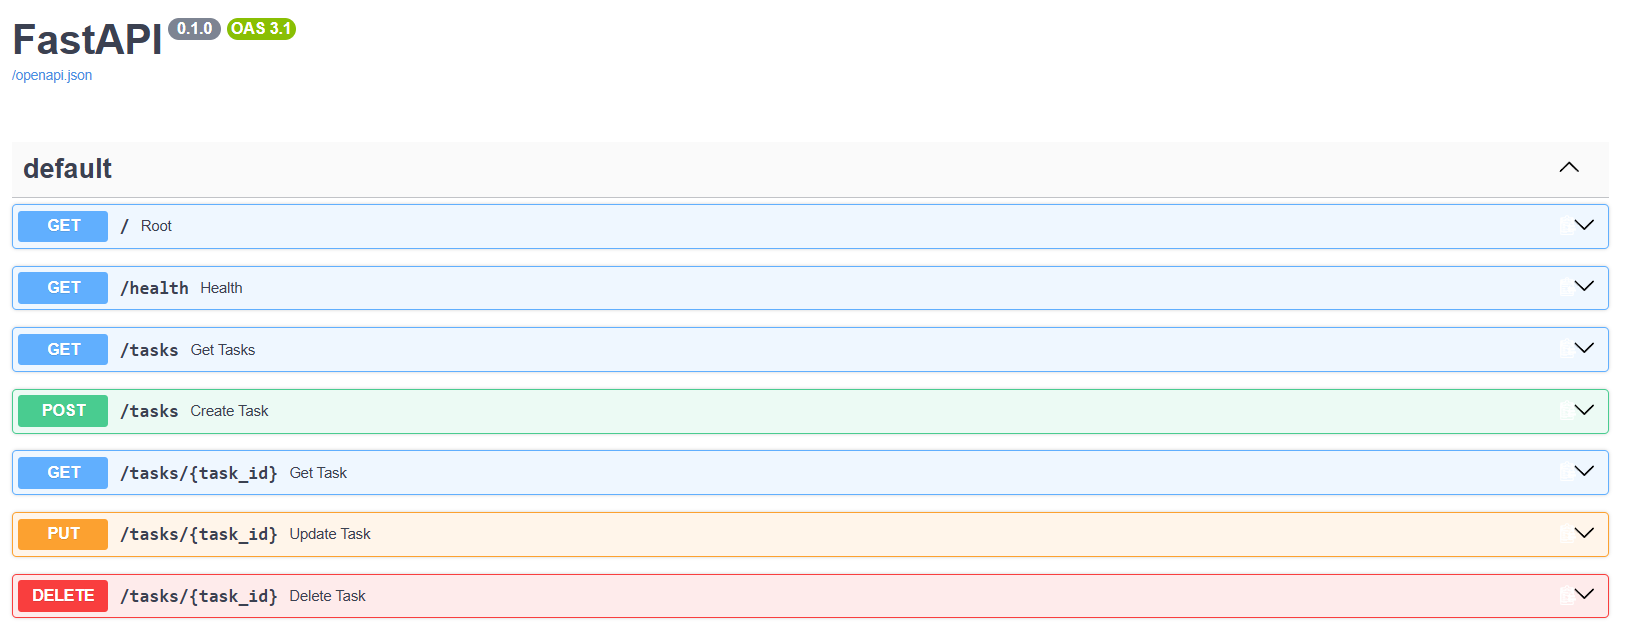
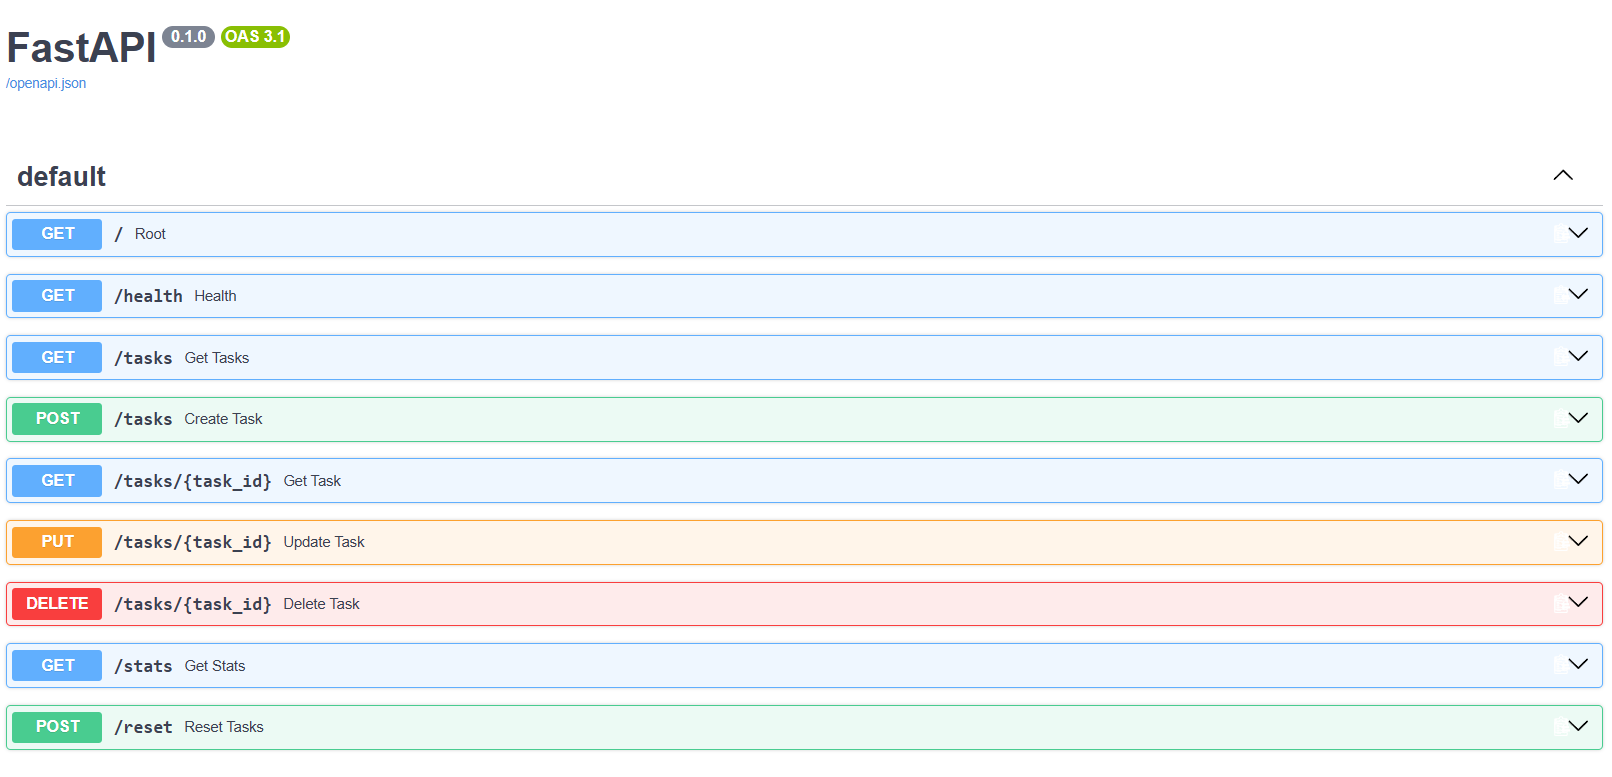
Extras: filtering search stats and reset

Changed region(s): [[0.0, 0.2188, 0.9926, 0.9688], [0.0, 0.0312, 0.1861, 0.125]]

diff --git a/main.py b/main.py
@@ -5,6 +5,8 @@ from fastapi.exceptions import RequestValidationError
 
 app = FastAPI()
 
+
+# Handles invalid request bodies and returns a simple 400 error.
 @app.exception_handler(RequestValidationError)
 async def validation_exception_handler(request, exc):
     return JSONResponse(
@@ -16,9 +18,20 @@ async def validation_exception_handler(request, exc):
 class TaskCreate(BaseModel):
     title: str = Field(min_length=1)
 
+
 class TaskUpdate(BaseModel):
     title: str | None = Field(default=None, min_length=1)
     done: bool | None = None
+
+
+# In-memory task storage.
+# Data will reset when the server restarts.
+tasks = [
+    {"id": 1, "title": "Learn FastAPI", "done": False},
+    {"id": 2, "title": "Build Task API", "done": False},
+    {"id": 3, "title": "Push to GitHub", "done": False},
+]
+
 
 @app.get("/", description="Returns information about the Task API.")
 def root():
@@ -33,17 +46,36 @@ def root():
 def health():
     return {"status": "ok"}
 
-tasks = [
-    {"id": 1, "title": "Learn FastAPI", "done": False},
-    {"id": 2, "title": "Build Task API", "done": False},
-    {"id": 3, "title": "Push to GitHub", "done": False},
-]
 
-@app.get("/tasks", description="Returns all tasks.")
-def get_tasks():
-    return tasks
+@app.get(
+    "/tasks",
+    description="Returns tasks with optional filtering and search."
+)
+def get_tasks(
+    done: bool | None = None,
+    search: str | None = None
+):
+    result = tasks
 
-@app.get("/tasks/{task_id}", description="Returns a single task by ID.")
+    # Filter tasks by completion status.
+    if done is not None:
+        result = [task for task in result if task["done"] == done]
+
+    # Search task titles.
+    if search is not None:
+        search = search.lower()
+        result = [
+            task for task in result
+            if search in task["title"].lower()
+        ]
+
+    return result
+
+
+@app.get(
+    "/tasks/{task_id}",
+    description="Returns a single task by ID."
+)
 def get_task(task_id: int):
     for task in tasks:
         if task["id"] == task_id:
@@ -54,7 +86,12 @@ def get_task(task_id: int):
         content={"error": f"Task {task_id} not found"}
     )
 
-@app.post("/tasks", status_code=201, description="Creates a new task.")
+
+@app.post(
+    "/tasks",
+    status_code=201,
+    description="Creates a new task."
+)
 def create_task(task: TaskCreate):
     new_id = max([t["id"] for t in tasks], default=0) + 1
 
@@ -68,7 +105,11 @@ def create_task(task: TaskCreate):
 
     return new_task
 
-@app.put("/tasks/{task_id}", description="Updates an existing task.")
+
+@app.put(
+    "/tasks/{task_id}",
+    description="Updates an existing task."
+)
 def update_task(task_id: int, updates: TaskUpdate):
 
     if updates.title is None and updates.done is None:
@@ -93,7 +134,12 @@ def update_task(task_id: int, updates: TaskUpdate):
         content={"error": f"Task {task_id} not found"}
     )
 
-@app.delete("/tasks/{task_id}", status_code=204, description="Deletes a task.")
+
+@app.delete(
+    "/tasks/{task_id}",
+    status_code=204,
+    description="Deletes a task."
+)
 def delete_task(task_id: int):
     for task in tasks:
         if task["id"] == task_id:
@@ -104,3 +150,38 @@ def delete_task(task_id: int):
         status_code=404,
         content={"error": f"Task {task_id} not found"}
     )
+
+
+@app.get(
+    "/stats",
+    description="Returns statistics about the tasks."
+)
+def get_stats():
+    total = len(tasks)
+    done = sum(1 for task in tasks if task["done"])
+    open_tasks = total - done
+
+    return {
+        "total": total,
+        "done": done,
+        "open": open_tasks
+    }
+
+
+@app.post(
+    "/reset",
+    description="Resets the task list to the original example tasks."
+)
+def reset_tasks():
+    global tasks
+
+    tasks = [
+        {"id": 1, "title": "Learn FastAPI", "done": False},
+        {"id": 2, "title": "Build Task API", "done": False},
+        {"id": 3, "title": "Push to GitHub", "done": False},
+    ]
+
+    return {
+        "message": "Tasks reset successfully",
+        "tasks": tasks
+    }

diff --git a/README.md b/README.md
@@ -2,7 +2,7 @@
 
 A small CRUD API built with Python and FastAPI as part of the FlyRank Backend Engineering + AI Internship.
 
-The API manages a simple in-memory to-do list and supports creating, reading, updating, and deleting tasks.
+The API manages a simple in-memory to-do list and supports creating, reading, updating, deleting, filtering, searching, and analyzing tasks.
 
 ## Features
 
@@ -13,6 +13,10 @@ The API manages a simple in-memory to-do list and supports creating, reading, up
 - Delete tasks
 - Input validation
 - HTTP status codes
+- Query parameter filtering
+- Task search
+- Task statistics
+- Reset task data
 - Interactive Swagger UI documentation
 
 ## Requirements
@@ -67,7 +71,7 @@ Interactive API documentation is available at:
 http://localhost:8000/docs
 ```
 
-Swagger UI can be used to test the complete CRUD cycle without using curl.
+Swagger UI can be used to test the complete CRUD cycle and optional features without using curl.
 
 ![Swagger UI](swagger.png)
 
@@ -82,6 +86,68 @@ Swagger UI can be used to test the complete CRUD cycle without using curl.
 | POST | `/tasks` | Creates a new task | 201 |
 | PUT | `/tasks/{task_id}` | Updates an existing task | 200 |
 | DELETE | `/tasks/{task_id}` | Deletes a task | 204 |
+| GET | `/stats` | Returns task statistics | 200 |
+| POST | `/reset` | Resets tasks to the original seed data | 200 |
+
+## Query Parameters
+
+The `/tasks` endpoint supports optional query parameters.
+
+### Filter by completion status
+
+```text
+GET /tasks?done=true
+```
+
+Returns only completed tasks.
+
+```text
+GET /tasks?done=false
+```
+
+Returns only incomplete tasks.
+
+### Search tasks
+
+```text
+GET /tasks?search=milk
+```
+
+Returns tasks whose titles contain `milk`.
+
+Filtering and search can also be combined:
+
+```text
+GET /tasks?done=false&search=milk
+```
+
+## Statistics
+
+The `/stats` endpoint calculates task statistics:
+
+```text
+GET /stats
+```
+
+Example response:
+
+```json
+{
+  "total": 3,
+  "done": 1,
+  "open": 2
+}
+```
+
+## Reset
+
+The `/reset` endpoint restores the original three example tasks:
+
+```text
+POST /reset
+```
+
+This is useful for testing and demonstrations.
 
 ## Example
 
@@ -135,7 +201,9 @@ Successful deletion returns:
 
 Tasks are stored in an in-memory Python list.
 
-This means data is lost whenever the server restarts. A database will be introduced in a later stage of the backend learning process.
+This means data is lost whenever the server restarts. Restarting the server restores the original three example tasks because no persistent database is being used.
+
+This behavior demonstrates why persistent database storage is important for real applications.
 
 ## Project Structure
 
